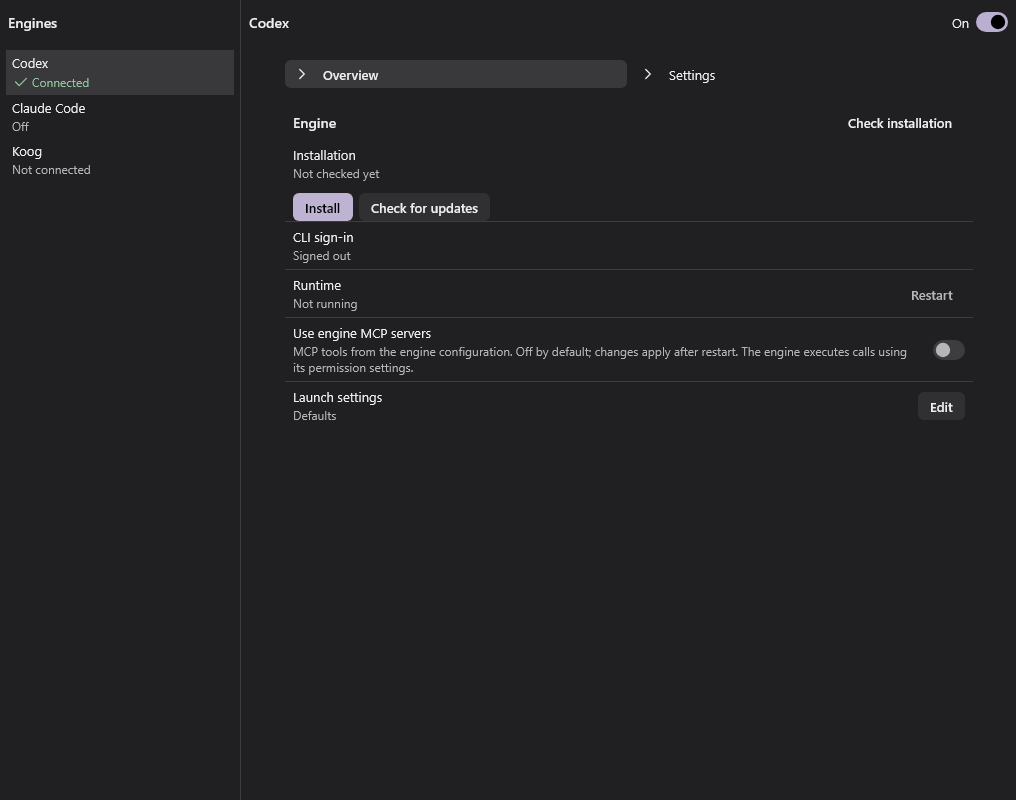
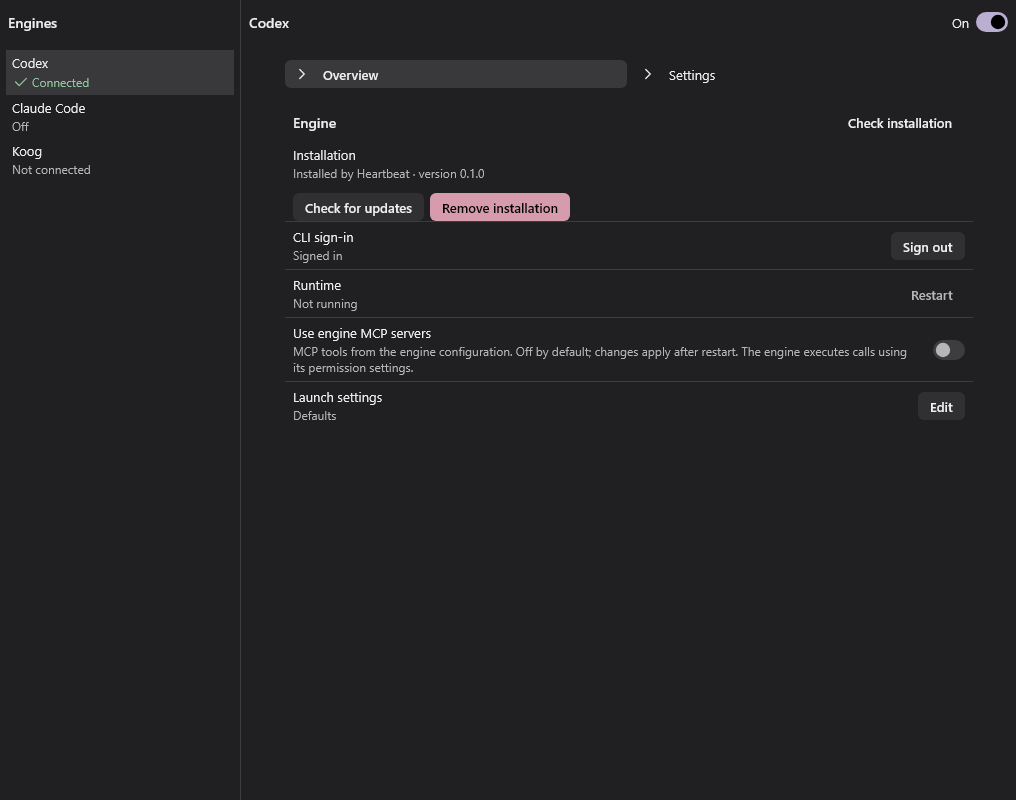
test(ai-engine): согласовать данные рендера подключённого движка
Использовать установленный авторизованный runtime в обзоре,
когда тестовый список показывает Connected. Пересоздать светлый
и тёмный PNG; runtime-поведение приложения не меняется.

Addresses-Review: https://github.com/aequicor/Heartbeat/pull/636#issuecomment-6560855409 F8

Changed region(s): [[0.2746, 0.1875, 0.5797, 0.2812], [0.8848, 0.2812, 0.9154, 0.3125]]

diff --git a/features/ai-engine/control-panel/impl/src/jvmTest/kotlin/io/aequicor/heartbeat/feature/aiengine/controlpanel/impl/ui/EngineBrowserUiTest.kt b/features/ai-engine/control-panel/impl/src/jvmTest/kotlin/io/aequicor/heartbeat/feature/aiengine/controlpanel/impl/ui/EngineBrowserUiTest.kt
@@ -28,6 +28,7 @@ import io.aequicor.heartbeat.feature.aiengine.controlpanel.impl.presentation.sto
 import io.aequicor.heartbeat.feature.aiengine.controlpanel.impl.presentation.store.reflect
 import io.aequicor.heartbeat.feature.aiengine.facade.api.DisabledReason
 import io.aequicor.heartbeat.feature.aiengine.facade.api.EngineEnablement
+import io.aequicor.heartbeat.feature.aiengine.facade.api.LoginState
 import kotlinx.collections.immutable.persistentListOf
 import kotlinx.collections.immutable.toPersistentList
 import java.io.File
@@ -140,7 +141,8 @@ class EngineBrowserUiTest {
     fun `desktop light and dark engine browser renders reviewable previews`() {
         listOf(false, true).forEach { dark ->
             runSkikoComposeUiTest(size = Size(1016f, 800f)) {
-                val panel = EngineControlPanelState(CodexId.value).reflect(CodexId, managedSnapshot())
+                val installed = managedCodexWithCopy().copy(login = LoginState.SignedIn())
+                val panel = EngineControlPanelState(CodexId.value).reflect(CodexId, managedSnapshot(installed))
                 setContent {
                     HbTheme(dimensions = HbDimensions.Desktop, darkTheme = dark) {
                         EngineControlBrowserContent(loaded, "codex", {}) {
